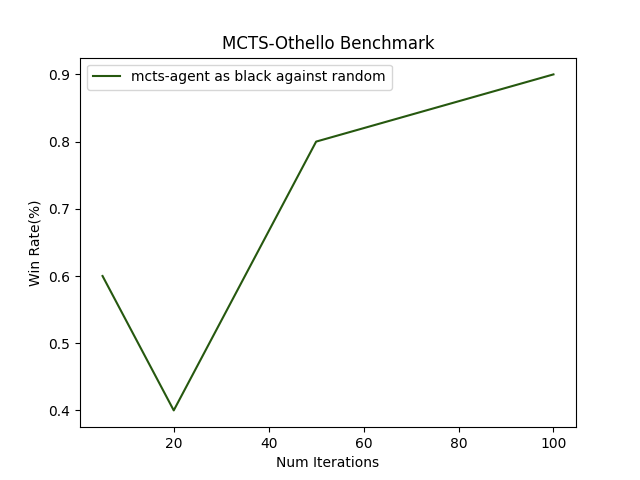
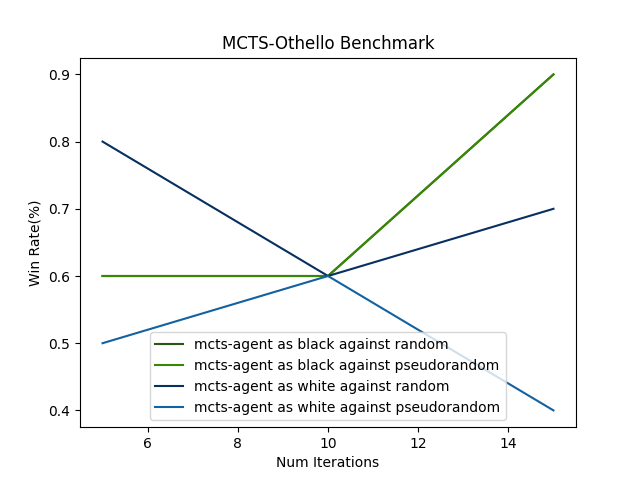
parallel benchmark

diff --git a/benchmark.py b/benchmark.py
@@ -2,6 +2,7 @@ from othello import Othello
 from MCTS import MCTS
 from random import choice
 from tqdm import tqdm
+from multiprocessing import Pool, cpu_count
 import numpy as np
 import matplotlib
 
@@ -10,7 +11,7 @@ import matplotlib.pyplot as plt
 
 
 TEST_AMOUNT = 100
-NUM_ITERATIONS = [5, 20, 50, 100, 200]
+NUM_ITERATIONS = [5, 10, 25, 50, 75, 100]
 
 
 def mcts_move(board, num_iterations):
@@ -49,7 +50,7 @@ def pseudorandom_move(board):
     return board.makeMove(psdrdm_move[0], psdrdm_move[1])
 
 
-def run(mcts_agent, num_iterations):
+def run(mcts_agent, num_iterations, player_agent):
     board = Othello(8)
     while True:
         if mcts_agent == "black":
@@ -59,12 +60,20 @@ def run(mcts_agent, num_iterations):
 
             if board.is_terminal():
                 break
-            board = random_move(board)
+
+            if player_agent == "pseudorandom":
+                board = pseudorandom_move(board)
+            elif player_agent == "random":
+                board = random_move(board)
 
         elif mcts_agent == "white":
             if board.is_terminal():
                 break
-            board = random_move(board)
+
+            if player_agent == "pseudorandom":
+                board = pseudorandom_move(board)
+            elif player_agent == "random":
+                board = random_move(board)
 
             if board.is_terminal():
                 break
@@ -75,6 +84,13 @@ def run(mcts_agent, num_iterations):
     return winner_map[res] == mcts_agent
 
 
+def job(color, num_iterations, player):
+    win_count = 0
+    for _ in tqdm(range(TEST_AMOUNT)):
+        win_count += run(color, num_iterations, player)
+    
+    return win_count / TEST_AMOUNT
+
 if __name__ == "__main__":
 
     results = {}
@@ -82,22 +98,16 @@ if __name__ == "__main__":
     color_map = {"black_random": '#26580f', 'black_pseudorandom': "#378805",
                  'white_random': '#072f5f', 'white_pseudorandom': '#1261a0'}
 
+
+    pool = Pool(processes=4)
+
     for color in ["black", "white"]:
         for player in ["random", "pseudorandom"]:
-            line = []
-            for num_iterations in NUM_ITERATIONS:
-                win_count = 0
-                print(
-                    f'Simulating MCTS agent as {color} with {num_iterations} iterations against {player} agent')
-                for _ in tqdm(range(TEST_AMOUNT)):
-                    win_count += run(color, num_iterations)
-
-                results[(color, num_iterations)] = results
-                line.append(win_count / TEST_AMOUNT)
-                print()
-
+            print(color, player)
+            res = pool.starmap(job, [(color, num_iterations, player) for num_iterations in NUM_ITERATIONS])
+            print(res)
             plt.plot(
-                NUM_ITERATIONS, line, label=f"mcts-agent as {color} against {player}", c=color_map[f'{color}_{player}'])
+                NUM_ITERATIONS, res, label=f"mcts-agent as {color} against {player}", c=color_map[f'{color}_{player}'])
 
     plt.ylabel("Win Rate(%)")
     plt.xlabel("Num Iterations")
